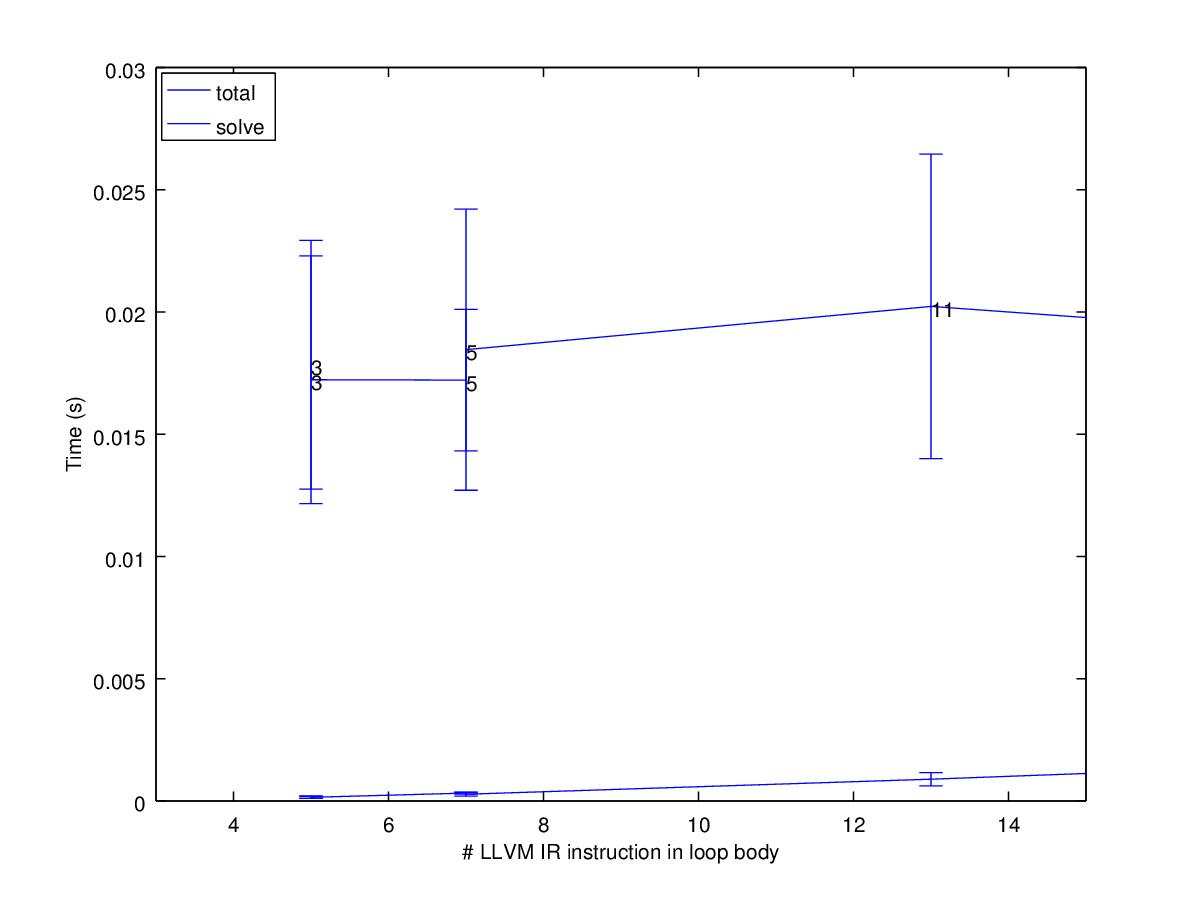
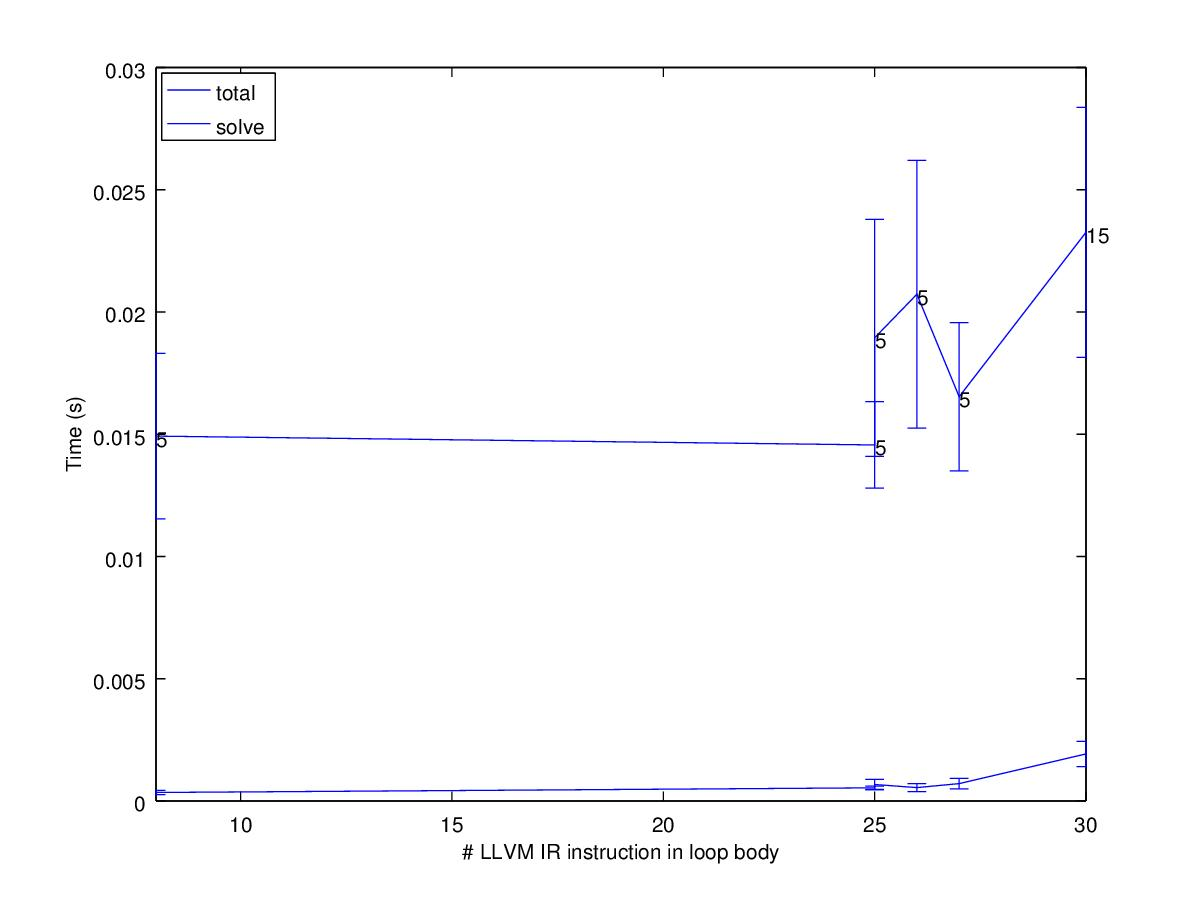
auto commit, sorry

diff --git a/plots/sdcmodsched.m b/plots/sdcmodsched.m
@@ -9,35 +9,40 @@ nfiles = numel(arg_list);
 % files or how many functions each one has, even though it is possible to get
 % the n/nloops values from ../variables.mk file and derive nloops from there
 looplabels = [];
-loopsizes = [];
-nsdcs = [];
-totaltime = [];
-solvetime = [];
+loopsizes = cell();
+nsdcs = cell();
+totaltime = cell();
+solvetime = cell();
 
 %nfiles = 1
 for file=1:nfiles
-  %a = importdata(char(arg_list(file)), '\t', 1);
-  a = importdata('DetailedModuleSDCSchedulingTime', '\t', 1);
+  arg_list(file);
+  %we could had it allllll, rolling in the deeeeeeepppp
+  a = importdata(char(arg_list(file)), '\t', 1);
+
+  %a = importdata('DetailedModuleSDCSchedulingTime', '\t', 1);
   %selec the functions by name since this is the one unique identifier
   [labels, iindex, jindex] = unique(a.textdata(2:end));
   %name
   [nloops, ~] = size(labels);
   [n, ~] = size(a.data);
   %one line for each function
-  ns = zeros(n/nloops, nloops);
-  tt = zeros(n/nloops, nloops);
-  st = zeros(n/nloops, nloops);
-  ls = zeros(1, nloops); %loop n inst
+  ns = cell();%zeros(n/nloops, nloops);
+  tt = cell();%zeros(n/nloops, nloops);
+  st = cell();%zeros(n/nloops, nloops);
+  lps = cell(); %loop n inst
 
   %jindex maps to which position in "name" the position in the original vector
   % refers to. Used as map
   for i=1:nloops
-    ls(i) = a.data(iindex(i), 1);
+    lps(i) = a.data(iindex(i), 1);
+    size(a.data(jindex==i,2));
+
     ns(:,i) = a.data(jindex==i,2);
     tt(:,i) = a.data(jindex==i,3);
     st(:,i) = a.data(jindex==i,4);
   end
-  %fs
+
   %get the name of the benchmark
   parts = strsplit(char(arg_list(file)), '/');
   if(numel(parts) > 3)
@@ -49,7 +54,7 @@ for file=1:nfiles
 
   %concatenate all files in one array
   nsdcs = [nsdcs, ns];
-  loopsizes = [loopsizes, ls];
+  loopsizes = [loopsizes, lps];
   totaltime = [totaltime, tt];
   solvetime = [solvetime, st];
 end
@@ -57,20 +62,31 @@ end
 %sorts according to the code size, not necessary now but helps to plot
 %sizeindex works as jindex
 looplabels = looplabels(2:end); %remove the initial empty string
-[loopsizes sizeindex] = sort(loopsizes);
-loopx = loopsizes;
+temp = cell2mat(loopsizes);
+[temp sizeindex] = sort(temp);
+loopsizes = temp;
 looplabels = looplabels(sizeindex);
 nsdcs = nsdcs(:,sizeindex);
 totaltime = totaltime(:,sizeindex);
 solvetime = solvetime(:,sizeindex);
 
-nsdcsmean = mean(nsdcs);
-totalmean = mean(totaltime);
-solvemean = mean(solvetime);
+nsdcsmean = zeros(size(nsdcs));
+totalmean = zeros(size(totaltime));
+solvemean = zeros(size(solvetime));
+nsdcsstd = zeros(size(nsdcs));
+totalstd = zeros(size(totaltime));
+solvestd = zeros(size(solvetime));
+loopx = loopsizes;
 
-nsdcsstd = std(nsdcs);
-totalstd = std(totaltime);
-solvestd = std(solvetime);
+for i=1:numel(nsdcs)
+  nsdcsmean(i) = mean(nsdcs{i});
+  totalmean(i) = mean(totaltime{i});
+  solvemean(i) = mean(solvetime{i});
+
+  nsdcsstd(i) = std(nsdcs{i});
+  totalstd(i) = std(totaltime{i});
+  solvestd(i) = std(solvetime{i});
+end
 
 %considers only the average values in the approximation
 polyx = loopx;
@@ -79,7 +95,7 @@ nsdcsP = polyfit(polyx, nsdcsmean, degree);
 totalP = polyfit(polyx, totalmean, degree);
 solveP = polyfit(polyx, solvemean, degree);
 
-interpolx = linspace(nsdcs(1), nsdcs(end), 10);
+interpolx = linspace(polyx(1), polyx(end), 10);
 nsdcs_interpoly = polyval(nsdcsP, interpolx);
 total_interpoly = polyval(totalP, interpolx);
 solve_interpoly = polyval(solveP, interpolx);
@@ -99,14 +115,14 @@ errorbar(loopx, totalmean, totalstd);
 errorbar(loopx, solvemean, solvestd);
 %errorbar(loopx, nsdcsmean, nsdcsstd);
 legend('total', 'solve','Location','northwest');
-%plot(interpolx, total_interpoly, '-r+');
-%plot(interpolx, solve_interpoly, '-r*');
+plot(interpolx, total_interpoly, '-r+');
+plot(interpolx, solve_interpoly, '-r*');
 text(loopx, totalmean,  num2cell(nsdcsmean));
 xlim([min(interpolx) max(interpolx)]);
 xlabel ("\# LLVM IR instruction in loop body");
 ylabel ("Time (s)");
 graphname = strcat('../build/plots/', partname,'_sdcschedtimes.jpg');
-graphname = strcat('./', partname,'_sdcschedtimes.jpg');
+%graphname = strcat('./', partname,'_sdcschedtimes.jpg');
 print(fighandle, char(graphname), '-djpg');
 hold off;
 
@@ -115,8 +131,9 @@ plot(loopx, 100*solvemean./totalmean);
 legend('solv');
 xlabel ("\# LLVM IR instruction in loop body");
 ylabel ("Percentage of solving time");
-%graphname = strcat('../build/plots/', partname,'_sdcschedtimes_percentages.jpg');
-graphname = strcat('./', partname,'_sdcschedtimes_percentages.jpg');
+graphname = strcat('../build/plots/', partname,'_sdcschedtimes_percentages.jpg');
+%graphname = strcat('./', partname,'_sdcschedtimes_percentages.jpg');
 print(fighandle, char(graphname), '-djpg');
 hold off;
-pause();
+
+return;

diff --git a/plots/lupplot.m b/plots/lupplot.m
@@ -74,9 +74,9 @@ end
 
 %sorts according to the code size, not necessary now but helps to plot
 %sizeindex works as jindex
-funcnames = funcnames(2:end) %remove the initial empty string
-[funcsizes sizeindex] = sort(funcsizes)
-funcnames = funcnames(sizeindex)
+funcnames = funcnames(2:end); %remove the initial empty string
+[funcsizes sizeindex] = sort(funcsizes);
+funcnames = funcnames(sizeindex);
 alloctime = alloctime(:,sizeindex);
 schedtime = schedtime(:,sizeindex);
 binditime = binditime(:,sizeindex);
